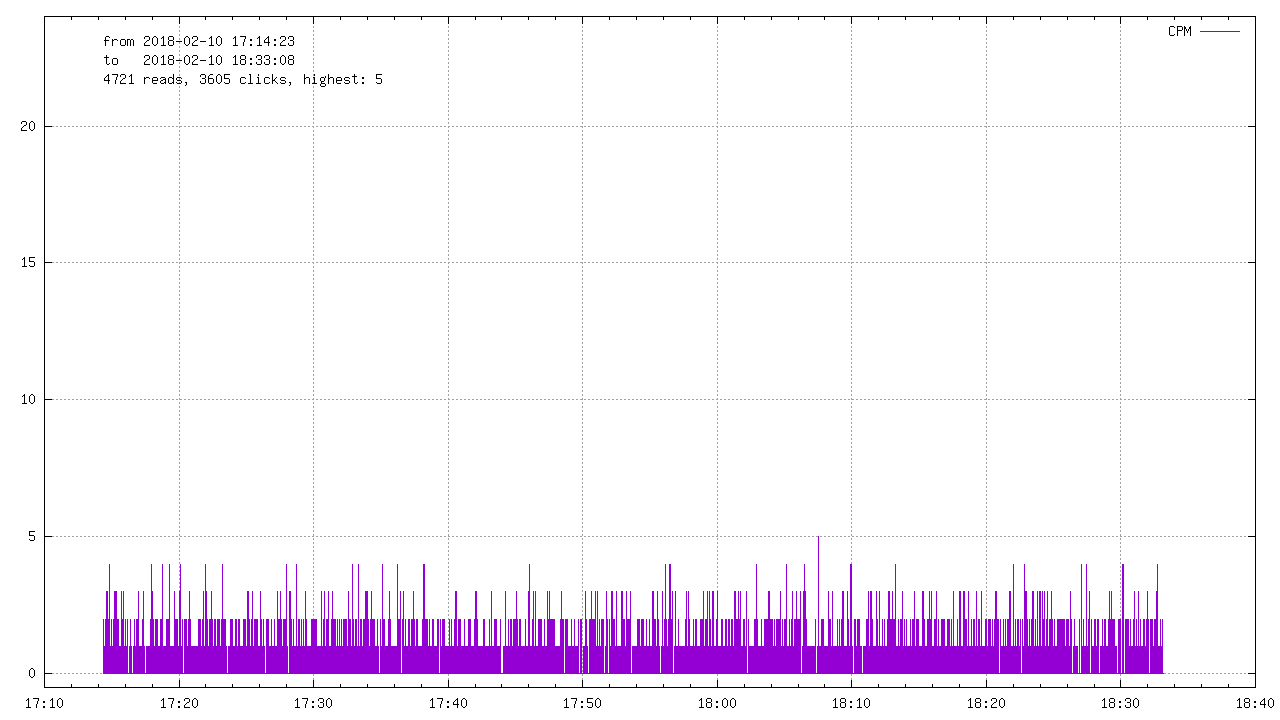
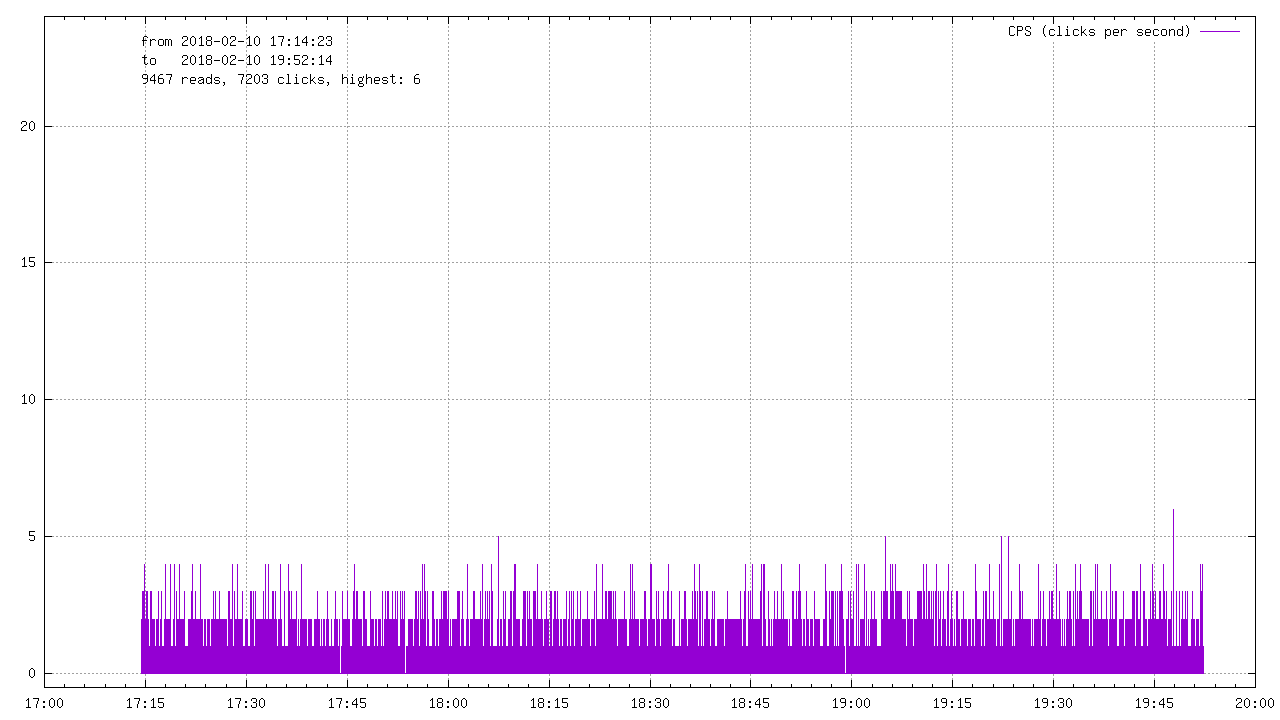
fix: typo/clarification

Changed region(s): [[0.0625, 0.7944, 0.9375, 0.9472], [0.0938, 0.0306, 0.3125, 0.1222], [0.9062, 0.0306, 0.9375, 0.0611]]

diff --git a/gmc.rb b/gmc.rb
@@ -286,7 +286,7 @@ set label    \"#{from.strftime 'from %Y-%m-%d %H:%M:%S'}\"         at '#{db.firs
 set label    \"#{to.strftime 'to   %Y-%m-%d %H:%M:%S'}\"           at '#{db.first.first.strftime '%Y%m%d.%H%M%S:'}', 22.4
 set label    \"#{db.size} reads, #{total} clicks, highest: #{max}\" at '#{db.first.first.strftime '%Y%m%d.%H%M%S:'}', 21.7
 set grid
-plot '-' using 1:2 title 'CPM' with impulse"
+plot '-' using 1:2 title 'CPS (clicks per second)' with impulse"
 
 db.each do |elem|
   fp.puts "#{elem.first.strftime '%Y%m%d.%H%M%S '} #{elem.last}"
